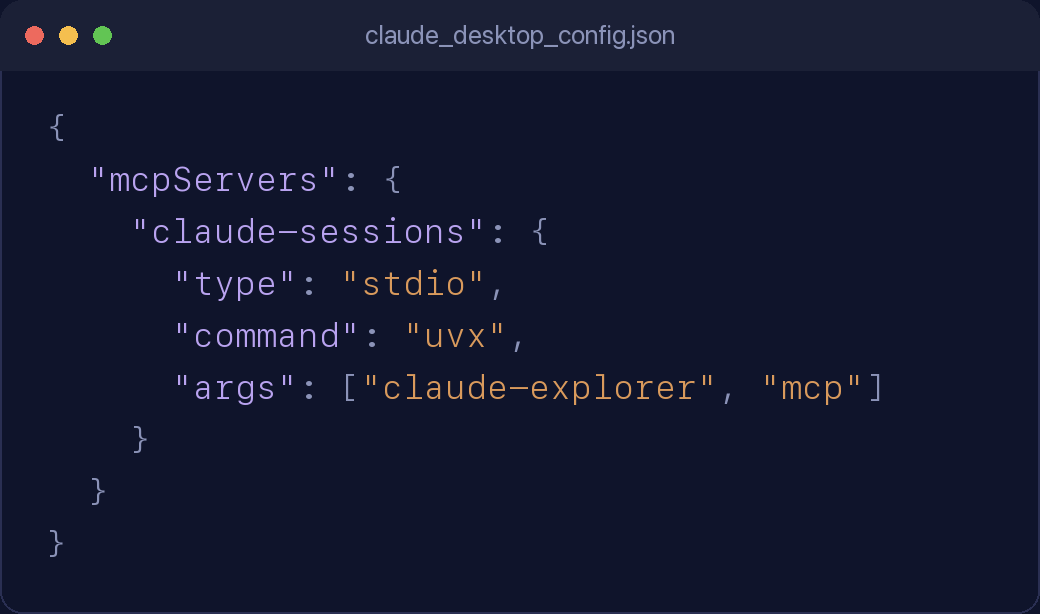
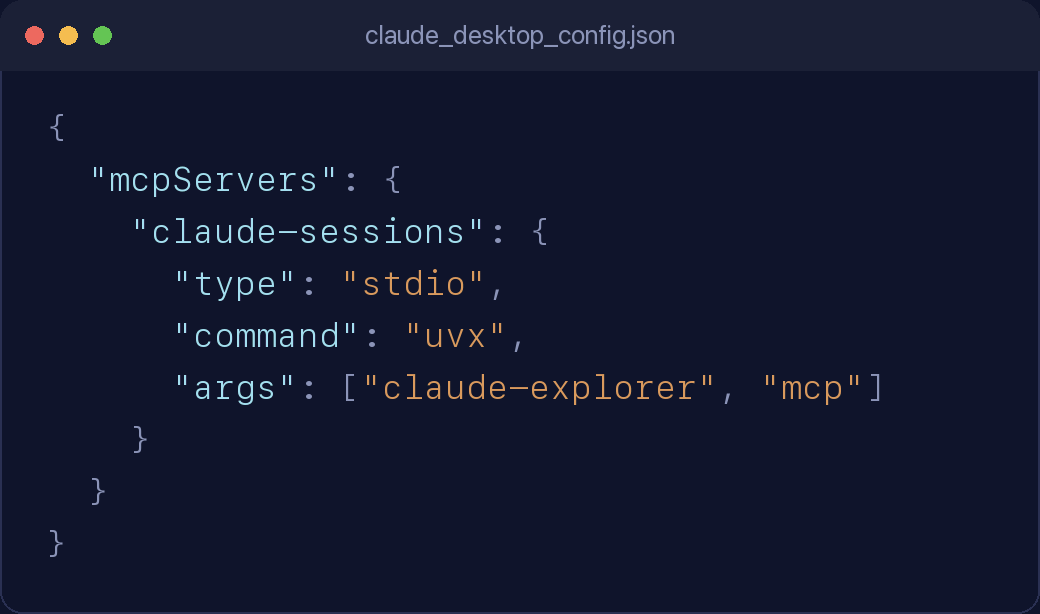
feat(deck): recolor synthetic screenshot accents purple->teal for editorial cohesion

diff --git a/PROCESS/canva_deck_styleguide.md b/PROCESS/canva_deck_styleguide.md
@@ -215,3 +215,15 @@ Key knobs live at the top of the file: geometry (`W,H,LM,RM,TM`), palette, font 
 (`NewYork.ttf` titles, `NewYorkItalic.ttf` subtitles, `SFNS.ttf` body, `SFNSMono.ttf`
 prompts), and the `font()`/`wrap()`/`paste_image()` primitives. macOS-only (system font
 paths). QA the output PDF at ≥150 dpi (low-res sheets hide edge clipping).
+
+**Synthetic-screenshot recolor (2026-06-10).** The four PIL-rendered windows/cards
+(`part3-deck-tool-use`, `-slide9-json`, `-slide8-prompt`, `-terminal`) were authored in
+the old purple/amber palette. To match the editorial teal without retyping any content
+(commands, JSON, message counts, the verbatim prompt — all of which must stay exact), the
+committed PNGs were hue-remapped **purple → teal** in place: a per-pixel HSV pass that
+shifts only pixels with PIL hue ∈ [172, 214] (≈245–302°, the purple accents; navy bg is
+229° so excluded) and saturation ≥ 45 (skips white/gray text) to hue 137 (≈193°, the deck
+teal). Greens, amber strings, traffic lights, and all text are untouched. This recolors
+only the JSON keys and the `✦` sparkles (<1% of pixels each). The real `/mcp` screenshot
+(`part3-deck-mcp-tools.png`) is genuine product UI and was left as-is. To redo it for a
+future Part, reuse the band/target above on the source PNGs before building.